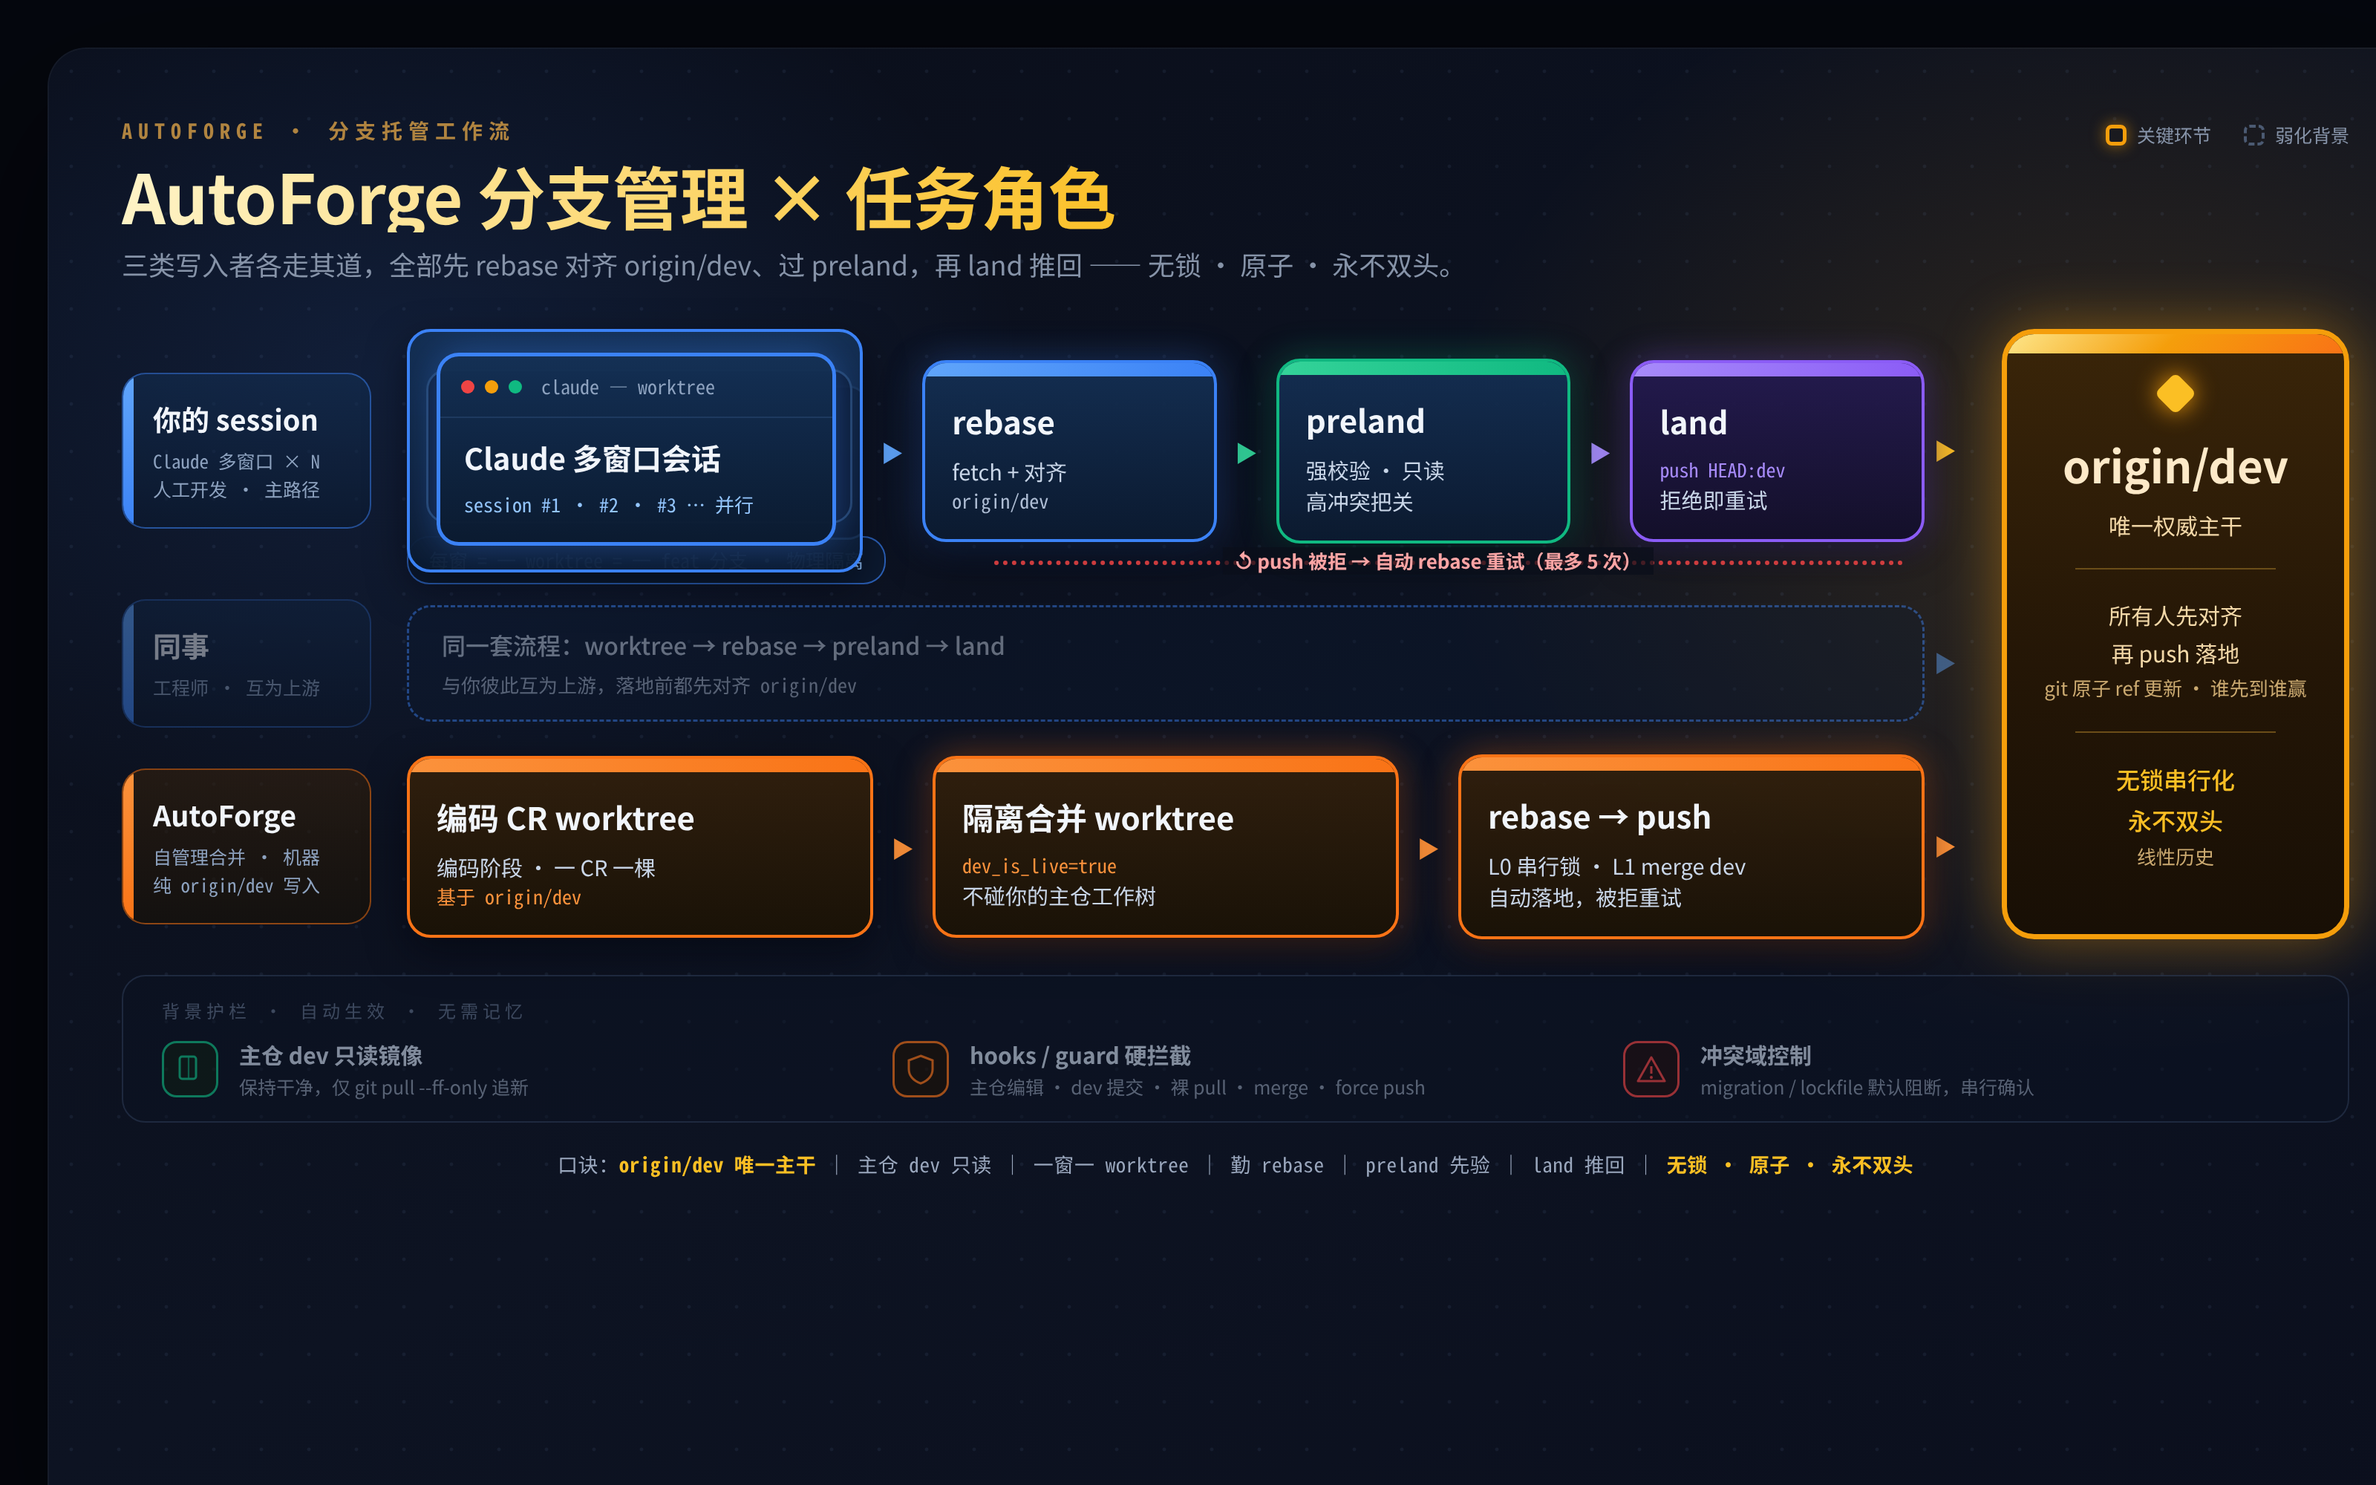
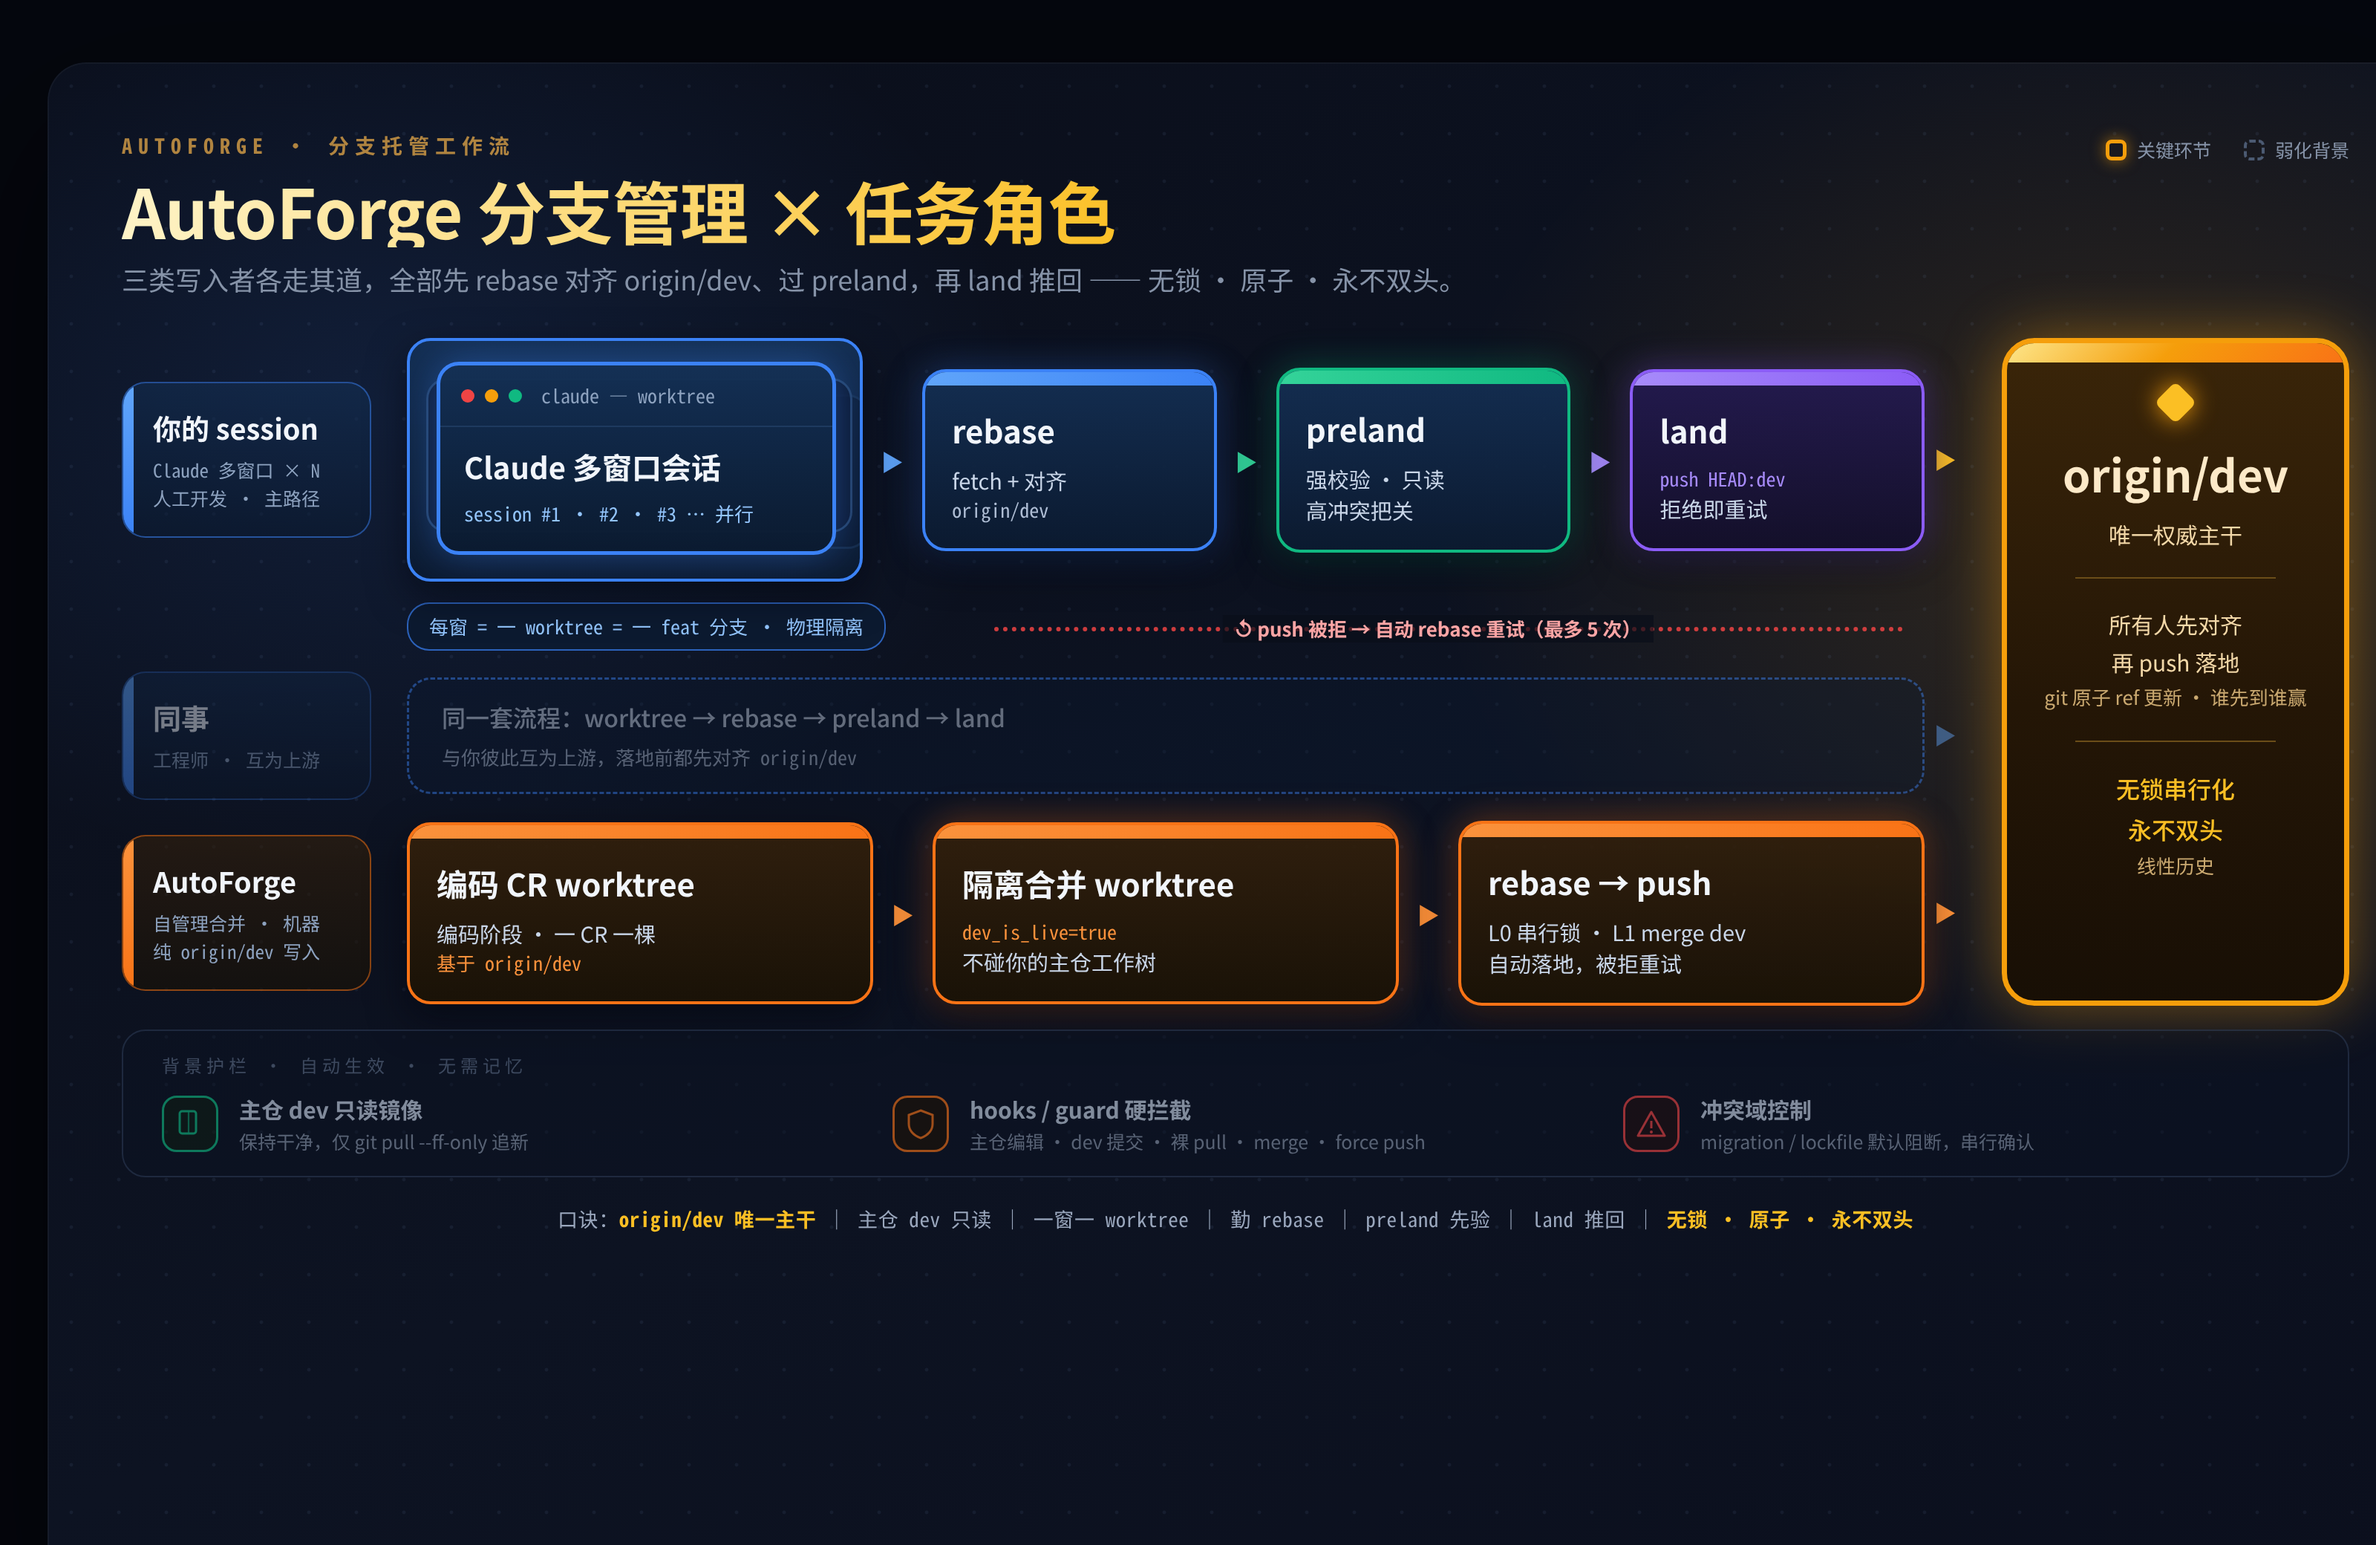
fix(branching-poster): 「每窗=一 worktree」徽标独立成行，不再被窗口卡遮挡
原 .lane1-extra 与 lane-1 卡片同处一个 grid 单元（align-self:end 叠放），
被层叠的多窗口卡覆盖。改为给徽标+重试回路独立网格行（4 行布局，hub 跨 4 行），
海报高度 1000→1040 容纳。

diff --git a/docs/branching-workflow.html b/docs/branching-workflow.html
@@ -28,7 +28,7 @@
 
   /* ===== 海报容器（截图即用 1600×1000） ===== */
   #poster{
-    position:relative; width:1600px; height:1000px; overflow:hidden;
+    position:relative; width:1600px; height:1040px; overflow:hidden;
     border-radius:26px; padding:46px 50px 40px;
     background:
       radial-gradient(680px 540px at 88% 30%, rgba(245,158,11,.16), transparent 70%),
@@ -59,11 +59,11 @@
 
   /* ===== 舞台网格 ===== */
   .stage{
-    margin-top:30px;
+    margin-top:26px;
     display:grid; grid-template-columns:168px minmax(0,1fr) 234px;
-    grid-template-rows:auto auto auto; gap:18px 24px; align-items:stretch;
+    grid-template-rows:auto auto auto auto; gap:14px 24px; align-items:stretch;
   }
-  .hub{grid-column:3; grid-row:1 / span 3}
+  .hub{grid-column:3; grid-row:1 / span 4}
 
   /* 角色标签 */
   .role{
@@ -132,9 +132,9 @@
   .colleague span{display:block; font-family:var(--f-mono); font-size:13px; color:#aebdd4; margin-top:6px}
 
   /* 关键回路 + 徽标 */
-  .lane1-extra{grid-column:2; grid-row:1; align-self:end; margin-bottom:-8px;
-    display:flex; align-items:center; gap:16px; pointer-events:none}
-  .retry{flex:1; position:relative; height:30px}
+  .lane1-extra{grid-column:2; grid-row:2;
+    display:flex; align-items:center; gap:16px}
+  .retry{flex:1; position:relative; height:28px}
   .retry .track{position:absolute; left:8%; right:6%; top:50%; height:0; border-top:3px dotted var(--red); opacity:.85;
     background:none; animation:flow 1.1s linear infinite}
   .retry .lbl{position:absolute; left:50%; top:6px; transform:translateX(-50%); white-space:nowrap;
@@ -156,7 +156,7 @@
   .hub-card .hot{color:var(--ember-soft); font-size:16px; font-weight:500; line-height:1.7}
 
   /* 护栏页脚 */
-  .guards{margin-top:24px; border-radius:16px; padding:14px 26px; opacity:.62;
+  .guards{margin-top:16px; border-radius:16px; padding:14px 26px; opacity:.62;
     background:rgba(12,19,34,.7); border:1.2px solid #2a3852;
     display:grid; grid-template-columns:repeat(3,1fr); gap:10px 30px; align-items:center}
   .guards .cap-row{grid-column:1 / -1; font-family:var(--f-mono); font-size:12px; letter-spacing:3px; color:var(--faint)}
@@ -220,10 +220,10 @@
       </div>
 
       <!-- 角色 2 -->
-      <div class="role dim" style="grid-column:1;grid-row:2;opacity:.46">
+      <div class="role dim" style="grid-column:1;grid-row:3;opacity:.46">
         <b>同事</b><span>工程师 · 互为上游</span>
       </div>
-      <div class="lane dim" style="grid-column:2;grid-row:2">
+      <div class="lane dim" style="grid-column:2;grid-row:3">
         <div class="colleague">
           <b>同一套流程：worktree → rebase → preland → land</b>
           <span>与你彼此互为上游，落地前都先对齐 origin/dev</span>
@@ -232,10 +232,10 @@
       </div>
 
       <!-- 角色 3 -->
-      <div class="role af" style="grid-column:1;grid-row:3">
+      <div class="role af" style="grid-column:1;grid-row:4">
         <b>AutoForge</b><span>自管理合并 · 机器<br>纯 origin/dev 写入</span>
       </div>
-      <div class="lane" style="grid-column:2;grid-row:3">
+      <div class="lane" style="grid-column:2;grid-row:4">
         <div class="card orange"><div class="cap"></div><h3>编码 CR worktree</h3><p>编码阶段 · 一 CR 一棵</p><p class="m">基于 origin/dev</p></div>
         <div class="arr orange">▸</div>
         <div class="card orange glow"><div class="cap"></div><h3>隔离合并 worktree</h3><p class="m">dev_is_live=true</p><p>不碰你的主仓工作树</p></div>
